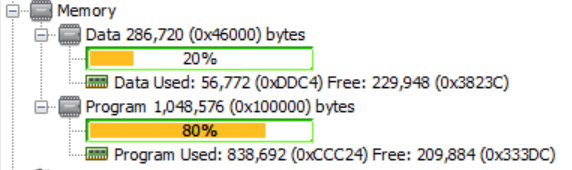
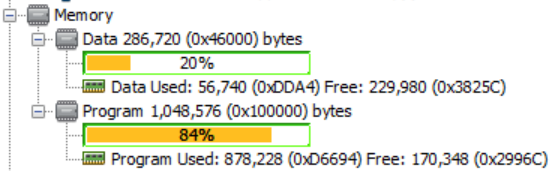
Update screenshots

diff --git a/README.md b/README.md
@@ -1,4 +1,4 @@
-# Quick Start Guide: Secure Cloud Connectivity and Voice Control Demo for Microchip WFI32-IoT Board.
+# Quick Start Guide: Secure Cloud Connectivity and Voice Control Demo for Microchip WFI32-IoT Board
 
 Devices: **| PIC32 WFI32E | WFI32 | Trust\&Go (ECC608) |**
 
@@ -62,7 +62,7 @@ If you have an [OLEDB Click board](https://www.mikroe.com/oled-b-click) connecte
 #### 2.2.1 Via WFI32-IoT Webpage <a name="chapter2.2.1"></a>
 <img src="resources/media/webpageWifiConnectionBox.png" width="480"/>
 
-1. The lower left-hand corner of the webpage will show a wireless network connection window.
+1. Scroll down the middle of the webpage. On the left, you will ses a **Wireless Network Login** panel.
 2. Enter your AP credentials and click the **Download Configuration** button. 
 3. A file named **WIFI.CFG** (text) file is downloaded to the host PC. 
 4. Drag and drop the file to the **CURIOSITY drive** to update the Wi-Fi credentials of the board.
@@ -70,7 +70,7 @@ If you have an [OLEDB Click board](https://www.mikroe.com/oled-b-click) connecte
 6. **Fast Blinking BLUE LED** indicates connecting to local AP and **solid BLUE LED** indicates connection is successful.
 
 **Note**: Any information entered in the SSID and password fields is not transmitted over the web or to the Microchip or AWS servers. Instead, the information is used locally (within the browser) to generate the **WIFI.CFG** file.
- 
+
 #### 2.2.2 Via Soft AP <a name="chapter2.2.2"></a>
 1. Download **Microchip Wi-Fi Provisioning** Mobile phone application for [Android](https://play.google.com/store/apps/details?id=com.microchip.wifiapplication&hl=en_US&gl=US) or for [iOS](https://apps.apple.com/us/app/wi-fi-provisioning/id1553255731).
 2. To enter SoftAP mode, hold the **SW1** push button for most of the power up time.
@@ -83,18 +83,18 @@ If you have an [OLEDB Click board](https://www.mikroe.com/oled-b-click) connecte
 7. Mobile app doesn't currently have native support for Wi-Fi provisioning for WPA3 enabled APs. If your AP security mode is WPA3, please jump to [step 14](#step14).
 8. List of available APs is shown. You can press **SCAN** button to refresh.
 
-**Note**: For iPhone/iPad, you have to provide your own AP crednetials as **SCAN** function is not supported due to iOS limitation.
+**Note**: For iPhone/iPad, you have to provide your own AP credentials as **SCAN** function is not supported due to iOS limitation.
 
 **Note**: Make sure you have location service in your phone enabled. Location service is needed by the application to be able to fetch Wi-Fi scan results (Android only), AP name and default Gateway.
 
 <img src="resources/media/mobileApp2.png" width="240"/>
 
-9. Choose one of the scanned APs or provide your own AP crednetials. Data provided is sent to the WFI32-IoT board as you press **SEND**. 
+9. Choose one of the scanned APs or provide your own AP credentials. Data provided is sent to the WFI32-IoT board as you press **SEND**. 
 
 <img src="resources/media/mobileApp3.png" width="240"/>
 <img src="resources/media/mobileApp4.png" width="240"/>
 
-10. Go back in the app and press **YES** when prompted so that the WFI32-IoT board applies the new credentilas.
+10. Go back in the app and press **YES** when prompted so that the WFI32-IoT board applies the new credentials.
 
 <img src="resources/media/mobileApp6.png" width="240"/>
 
@@ -104,10 +104,12 @@ If you have an [OLEDB Click board](https://www.mikroe.com/oled-b-click) connecte
 ##### For WPA3-enabled AP: <a name="step14"></a>
 14. Navigate from **Wi-Fi** tab to **OTHER** tab and type in the following string without the double quotations: "*apply,ssid,password,4*". Please replace *ssid* with your AP name and *password* with your AP password. Press **SEND** when done.
 	
+
 <img src="resources/media/mobileApp7.png" width="240"/>
 	
-15. Go back in the app and press **YES** when prompted so that the WFI32-IoT board applies the new credentilas.
+15. Go back in the app and press **YES** when prompted so that the WFI32-IoT board applies the new credentials.
 	
+
 <img src="resources/media/mobileApp8.png" width="240"/>
 
 **Note**: WFI32-IoT board will NOT apply/use provided credentials unless you go back in the app. This gives you the chance to keep sending new credentials or correct wrongly provided ones as long as you didn't go back in the app.
@@ -125,29 +127,24 @@ If you have an [OLEDB Click board](https://www.mikroe.com/oled-b-click) connecte
 
 <img src="resources/media/webpageGraphs.png" width="720"/>
 
-**Note**: Take note of your Thing Name as it's going to be noted for registering the device for Alexa Voice Control in [section 2.4](#chapter2.4).
+**Note**: Take note of your Thing Name as it's going to be needed for registering the device for Alexa Voice Control in [section 2.4](#chapter2.4).
+
+**Note**: Temperature reported is the PCB temperature not ambient temperature. Accordingly, you may notice always a number that's above your room temperature.
 
 #### Sending messages to the board
-1. Click on **What's Next** button below the Temprature and Light graphs.
-2. Select **Implement a Cloud-Controlled Actuator** to demostrate cloud performed behaviors.
-
-<img src="resources/media/webpageCloudActuator.png" width="720"/>
-
-3. Click on **Learn More** button to expand page interface then Scroll to the bottom of **Step 5** where a panel will read **Control Your Device**.
-
-<img src="resources/media/webpageLearnMore.png" width="720"/>
-
-4. By default only a **Toggle** feature is demostrated. Custom implmentations are described further on above the panel.
+1. Scroll down to **What's Next** section in the webpage.
+2. Select **Implement a Cloud-Controlled Actuator** to demonstrate cloud performed behaviors.
+3. Click on **See more**  then Scroll down the **Control Your Device** panel.
 
 <img src="resources/media/webpageToggle.png" width="720"/>
 
 5. Click on **Send to device** to send **Toggle** button value. 
-6. The **YELLOW LED** will remain on/off for 2 seconds when **Toggle** button is selected/unselected, respectively. After the 2 seocnds, the **YELLOW LED** will go back to its normal functionality; blinking on each successfull message published to the cloud.
+6. The **YELLOW LED** will remain on/off for 2 seconds when **Toggle** button is selected/unselected, respectively. After the 2 seconds, the **YELLOW LED** will go back to its normal functionality; blinking on each successful message published to the cloud.
 
-**Note**: Because Toggle manipulates the desired stat, the state must be changed to observe the behavior.
+**Note**: Because Toggle manipulates the desired state, the state must be changed to observe the behavior.
 
 ### 2.4 Voice Control <a name="chapter2.4"></a>
-Please note that supported browsers inlcudes Google Chrome, Mozilla Firefox, Safari, and Microsoft Edge while Internet Explorer is not supported. Please also note that only devices registered to the Microchip Cloud account can be registered for voice control and controlled via the voice skills. In case of registration errors, please contact [Microchip support](http://microchip.com/support)
+Please note that supported browsers includes Google Chrome, Mozilla Firefox, Safari, and Microsoft Edge while Internet Explorer is not supported. Please also note that only devices registered to the Microchip Cloud account can be registered for voice control and controlled via the voice skills. In case of registration errors, please contact [Microchip support](http://microchip.com/support)
 
 <img src="resources/media/voiceReg1.png" width="1080"/>
 
@@ -165,10 +162,11 @@ Please note that supported browsers inlcudes Google Chrome, Mozilla Firefox, Saf
 > Alexa, turn on the myCuriosity
 6. The **YELLOW LED** will remain on/off for 2 Seconds based on the voice command.
    
+
 **Note**: You can find out more information about connecting a smart home device to Alexa from [this link](http://tinyurl.com/alexa-smart-home)
- 
-**Note**: Supported browsers inlcude Google Chrome, Mozilla Firefox, Safari, and Microsoft Edge while Internet Explorer is not supported. 
- 
+
+**Note**: Supported browsers include Google Chrome, Mozilla Firefox, Safari, and Microsoft Edge while Internet Explorer is not supported. 
+
 **Note**: Only devices registered to the Microchip Cloud account can be registered for voice control and controlled via the voice skills. In case of registration errors, please contact [Microchip support](http://microchip.com/support)
 
 ## 3. User Commands <a name="Chapter3"></a>
@@ -191,7 +189,7 @@ UART1 supports a set of user commands via command line as follows (more info abo
 Curious to learn more? ..
 - Check out our **[Deep Dive Guide](https://github.com/amrabdelmoghny/WFI32-IoT/blob/main/HowItWorks.md)** to dive behind the scenes, learn how Connectivity, Security and Cloud are tied together and experience how smooth it is to migrate the demo to your own cloud instance. 
 - We have gathered some FAQs and troubleshooting tips for you under the **[FAQ and Troubleshooting Page](https://github.com/amrabdelmoghny/WFI32-IoT/blob/main/FAQ.md)**. 
-- Refer to WFI32-IoT board **[HW user guide]()**. 
+- Refer to WFI32-IoT board **[product page](https://www.microchip.com/en-us/development-tool/ev36w50a)** and **[HW user guide](https://ww1.microchip.com/downloads/aemDocuments/documents/WSG/ProductDocuments/UserGuides/EV36W50A-WFI32-IoT-Board-Users-Guide-DS50003262.pdf)**. 
 - Check out **[WFI32E01PC module Product page](https://www.microchip.com/wwwproducts/en/WFI32E01PC)** for tips, guides, knowledge base article, code examples and further more!
 - Check out **[Curisoity Board](https://www.microchip.com/developmenttools/ProductDetails/PartNO/EV12F11A)**; another evaluation board for WFI32E01PC module where you can have access to more module interfaces (i.e Ethernet) and more pins for prototyping. 
-- A very similar and exciting demo for Curisoity Board is available **[here](https://github.com/MicrochipTech/PIC32MZW1_Curiosity_OOB)**.
+- A very similar and exciting demo for Curiosity Board is available **[here](https://github.com/MicrochipTech/PIC32MZW1_Curiosity_OOB)**.

diff --git a/HowItWorks.md b/HowItWorks.md
@@ -12,8 +12,8 @@ The WFI32-IoT board comes pre-programmed and configured for demonstrating the co
 <img src="resources/media/board1.png"/ width="480">
 </p>
 
-Please check out our **[Quick Start Guide](https://github.com/amrabdelmoghny/WFI32-IoT/blob/main/README.md)** to experience an out-of-the-box cloud connection to Microchip AWS Sandbox account. We have also gathered some FAQs and troubleshooting tips for you under the **[FAQ and Troubleshooting Page](https://github.com/amrabdelmoghny/WFI32-IoT/blob/main/FAQ.md)**.
- 
+Please check out our **[Quick Start Guide](https://github.com/MicrochipTech/WFI32-IoT/blob/main/README.md)** to experience an out-of-the-box cloud connection to Microchip AWS Sandbox account. We have also gathered some FAQs and troubleshooting tips for you under the **[FAQ and Troubleshooting Page](https://github.com/MicrochipTech/WFI32-IoT/blob/main/FAQ.md)**.
+
 ## Table of Contents
 
 1. [Requirements](#chapter1)
@@ -26,7 +26,7 @@ Please check out our **[Quick Start Guide](https://github.com/amrabdelmoghny/WFI
 8. [Re-flash the demo](#chapter8)
 9. [Code generation using Harmony 3](#chapter9)
 10. [Power Save Modes](#chapter10)
- 
+
 ## 1. Requirements <a name="Chapter1"></a>
 
 * **MPLAB® X Integrated Development Environment (IDE) v5.40 or later**
@@ -43,7 +43,7 @@ The WFI32-IoT board is a compact, easy-to-use development board that supports ra
 ---
 
 ## 2. Application Scope <a name="Chapter2"></a>
-The WFI32-IoT-IoT development board has been created with the intention of demostrating a one source solution for evaluation of existing cloud provider solutions. 
+The WFI32-IoT-IoT development board has been created with the intention of demonstrating a one source solution for evaluation of existing cloud provider solutions. 
 This example end-device leverages the catalog of devices, and libraries provided through Microchip's extensive product line to showcase a basic Internet of Things product connection. Data exchange between server and in field device is implemented using on board sensors for temperature and light value observations. Behavior actions are demonstrated through visual indication of the 'Data' LED as controlled through the Web based APIs. 
 
 General Out-Of-Box operation is as described below:
@@ -70,10 +70,12 @@ The application runs multiple logical modules as follows:
 | ----------------------------- | --------------------- | ------------------------------------------------------------------------------------- |
 | **APP**			| app.c/.h		| The main/central module that manages **Wi-Fi functionality**.              		|
 | **APP_WIFI_PROV**		| app_wifi_prov.c/.h	| Manages **AP provisioning functionality** to provision the device using AP mode	|
-| **APP_USB_MSD**		| app_usb_msd.c/.h	| Manages **Mass Storage Device functionality**  					|
+| **APP_USB_MSD**		| app_usb_msd.c/.h	| Manages **Mass Storage Device functionality**(*) |
 | **APP_CTRL**			| app_ctrl.c.h		| Manages device **Control operations** including LED management and sensors access	|
 | **APP_AWS**			| app_aws.c/.h		| Manages **AWS cloud connection/subscribe/publish functionality**			|
 | **APP_COMMANDS**		| app_commands.c/.h	| Manage **User commands given via command line**					|
+| **APP_OLED**	| app_oled.c/.h	| Manage **OLEDB click board**	|
+| **APP_PS**	| app_ps.c/.h	| Manage different **power save** modes	|
 
 (*) **Mass Storage Device** gives access to:
 * Configure the device for Wi-Fi connection via **WIFI.CFG**.
@@ -108,7 +110,7 @@ The application runs multiple logical modules as follows:
 	       }
 	  }
 	}
-     ```
+  ```
 * Web Interface publishes payload to Device Shadow
 	* topic: ``$aws/things/<thingName>/shadow/update``
 	* payload:
@@ -174,9 +176,10 @@ The application runs multiple logical modules as follows:
 ## 6. Understanding the Device Shadow in AWS <a name="Chapter6"></a>
 
 1. The AWS broker allows for the use of Shadow Topics. The Shadow Topics are used to retain a specific value within the Broker, so End-Device status updates can be managed.
+
  	* Shadow Topics are used to restore the state of variables, or applications.
-	* Shadow Topics retain expected values, and report if Published data reflects a difference in value.
-	* When difference exist, status of the delta is reported to those subscribed to appropriate topic messages.
+ 	* Shadow Topics retain expected values, and report if Published data reflects a difference in value.
+ 	* When difference exist, status of the delta is reported to those subscribed to appropriate topic messages.
 
 2. Updates to the device shadow are published on ``$aws/things/{thingName}/shadow/update`` topic.  When a message is sent to the board by changing the value of the **toggle** button in **Control Your Device** section:
 	* This message is published on the ``$aws/things/{thingName}/shadow/update topic``. 

diff --git a/FAQ.md b/FAQ.md
@@ -11,7 +11,7 @@ Features: **| Secure Cloud connectivity | Voice Control |**
 3. [Why is temperature value reported by the board is higher than my actual room temperature?](#q3)
 5. [What is the flash and RAM usage in normal Vs MicroMIPS modes?](#q4)
 6. [How to enable compiler MicroMIPS modes?](#q5)
- 
+
 #### 1.  The board is not able to connect to the cloud from my office network <a name="q1"></a>
 
 The most common issue in this scenario is the firewall configurations of the office network. Cloud connection is done over the secure MQTT port 8883. Many office firewalls block this port. Please talk to the IT department of your office to allow port 8883 in your firewall.
@@ -31,7 +31,7 @@ When using XC32 compiler normal mode, following is data and program memeory usag
 <img src="resources/media/FAQ/mem_usage.PNG" width=400/>
 </p>
 
-When using XC32 compiler microMIPS mode (needs XC32 license to enable *Os* Optimization level), program memory savings of around **20% (201.2 KB)** can be observed:
+When using XC32 compiler microMIPS mode (needs XC32 license to enable *Os* Optimization level), program memory savings of around **23% (241 KB)** can be observed:
 <p>
 <img src="resources/media/FAQ/mem_usage_opt_Os_uMIPS.PNG" width=400/>
 </p>
